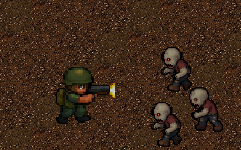
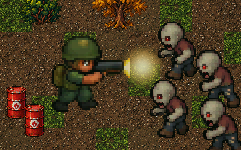
fix: registro sigue a la sala, aliado visible en 2v2, retratos nuevos y asistencia de apuntado
- crear cuenta desde una sala lleva directo a esa sala (antes regresaba al inicio)
- en el lobby 2v2 se ve el personaje del compañero; el de los rivales sigue oculto
- imágenes de militar, médica y obrero con el mismo estilo que explorador y mecánica
- celular: el temblor del dedo ya no anula el autoapuntado, aro rojo en el objetivo y asistencia al apuntar a mano

diff --git a/src/modules/Game/GamePage.tsx b/src/modules/Game/GamePage.tsx
@@ -4,10 +4,10 @@ import { GameChat } from './components/GameChat'
 import type { ChatMessage } from '../Lobby/hooks/useLobbyRoom'
 import { SettingsModal } from '../../shared/components/SettingsModal'
 import { useFullscreen } from '../../shared/lib/fullscreen'
-import { ARMORY_OPEN_S, BUILD_REACH, CORE_HP, HEAVY_WEAPONS, TILE, type GameCommand, type GameMap, type GameState, type GameSyncData, type MatchEndReason, type MatchXp, type PlayerInput, teamOf, type RoomStatus, type Slot, type Stock, type Team, type WeaponId } from '../../shared/lib/contracts'
+import { ARMORY_OPEN_S, BUILD_REACH, CORE_HP, HEAVY_WEAPONS, TILE, WEAPON_RANGE, type GameCommand, type GameMap, type GameState, type GameSyncData, type MatchEndReason, type MatchXp, type PlayerInput, teamOf, type RoomStatus, type Slot, type Stock, type Team, type WeaponId } from '../../shared/lib/contracts'
 import { emitAck, getSocket } from '../../shared/lib/socket'
 import { SnapshotBuffer } from '../../game/client/interpolation'
-import { consumeEvents, createFx, createStaticLayer, aimFromMouse, drawCrosshair, drawFrame, drawMinimap, screenToWorld, type Camera } from '../../game/client/render'
+import { autoAimTarget, consumeEvents, createFx, createStaticLayer, aimFromMouse, drawCrosshair, drawFrame, drawMinimap, screenToWorld, type Camera } from '../../game/client/render'
 import { drawAimLine } from '../../game/client/aimLine'
 import { loadSprites, type Sprites } from '../../game/client/sprites'
 import { useGameInput } from './hooks/useGameInput'
@@ -207,7 +207,7 @@ export function GamePage({ mySlot, status, roomResult, onExit, xp, results, chat
     },
     [sendCommand, selectWeapon],
   )
-  const { read: readInput, setTouchDirection, setTouchAim, setAimPressed, readTouchAim, setMouseAction } = useGameInput(onCommand, swapToPreviousWeapon)
+  const { read: readInput, setTouchDirection, setTouchAim, setAimPressed, readTouchAim, readAutoHold, setMouseAction } = useGameInput(onCommand, swapToPreviousWeapon)
   const finished = status === 'results'
   const aimEnabled = settings.mouseAim && !isTouch
   const aimEnabledRef = useRef(aimEnabled)
@@ -479,7 +479,9 @@ export function GamePage({ mySlot, status, roomResult, onExit, xp, results, chat
         }
       }
       if (!lastSent || !sameInput(input, lastSent) || !sameAim(aim, lastSentAim) || now - lastSentAt >= INPUT_HEARTBEAT_MS) {
-        const payload = aim ? { seq: seq++, ...input, aim: { x: +aim.x.toFixed(2), y: +aim.y.toFixed(2) } } : { seq: seq++, ...input }
+        // Apuntado manual con el dedo: el servidor corrige un poco hacia un objetivo cercano a la mira (asistencia).
+        const assist = touchAim ? { aimAssist: true } : {}
+        const payload = aim ? { seq: seq++, ...input, ...assist, aim: { x: +aim.x.toFixed(2), y: +aim.y.toFixed(2) } } : { seq: seq++, ...input }
         socket.emit('game:input', payload)
         lastSent = input
         lastSentAim = aim
@@ -523,6 +525,7 @@ export function GamePage({ mySlot, status, roomResult, onExit, xp, results, chat
         effects: prefs.effects,
         aim,
         ghost,
+        autoTarget: touchRef.current && readAutoHold() && meNow ? autoAimTarget(view, mySlot, WEAPON_RANGE[meNow.weapon] ?? 9) : null,
       })
       const meView = view.players.find((p) => p.slot === mySlot)
       mePos = meView ? { x: meView.x, y: meView.y } : null
@@ -574,7 +577,7 @@ export function GamePage({ mySlot, status, roomResult, onExit, xp, results, chat
       document.removeEventListener('fullscreenchange', resize)
       vv?.removeEventListener('resize', resize)
     }
-  }, [sprites, map, mySlot, readInput, readTouchAim])
+  }, [sprites, map, mySlot, readInput, readTouchAim, readAutoHold])
 
   const armoryProgress = hud?.armory?.available ? hud.armory.progress[mySlot] : undefined
   const layout = settings.hudLayout

diff --git a/src/game/client/render.ts b/src/game/client/render.ts
@@ -534,6 +534,8 @@ export interface FrameOptions {
   effects: boolean
   /** Local player's aim direction (world space) while mouse aiming is on; drives the sprite facing. */
   aim?: { x: number; y: number } | null
+  /** Objetivo del autoapuntado táctil (casillas): se marca con un aro rojo. */
+  autoTarget?: { x: number; y: number } | null
 }
 
 export function drawFrame(ctx: Ctx, v: View, o: FrameOptions): Camera {
@@ -689,6 +691,23 @@ export function drawFrame(ctx: Ctx, v: View, o: FrameOptions): Camera {
   }
   ctx.globalAlpha = 1
 
+  // Objetivo del autoapuntado (celular, botón mantenido sin arrastrar)
+  if (o.autoTarget) {
+    const { x, y } = o.autoTarget
+    const pulse = 1 + Math.sin(fx.clock * 10) * 0.12
+    ctx.strokeStyle = '#ff2a2f'
+    ctx.lineWidth = 2
+    ctx.beginPath()
+    ctx.ellipse(x * TILE, y * TILE + 4, 14 * pulse, 7 * pulse, 0, 0, Math.PI * 2)
+    ctx.stroke()
+    ctx.beginPath()
+    for (const a of [0, Math.PI / 2, Math.PI, (3 * Math.PI) / 2]) {
+      ctx.moveTo(x * TILE + Math.cos(a) * 18 * pulse, y * TILE - 6 + Math.sin(a) * 18 * pulse)
+      ctx.lineTo(x * TILE + Math.cos(a) * 11 * pulse, y * TILE - 6 + Math.sin(a) * 11 * pulse)
+    }
+    ctx.stroke()
+  }
+
   // Casilla bajo el mouse (clic derecho = construir ahí): lo que se pondría, con su textura, en verde (o rojo si no se puede)
   if (o.ghost) drawBuildGhost(ctx, v, sp, o.ghost)
 
@@ -763,6 +782,43 @@ function drawBuildGhost(ctx: Ctx, v: View, sp: Sprites, g: { x: number; y: numbe
   ctx.strokeStyle = ok ? '#2ee86a' : '#ff2a2f'
   ctx.lineWidth = 2
   ctx.strokeRect(x * TILE + 1, y * TILE + 1, TILE - 2, TILE - 2)
+}
+
+/** Casillas que frenan balas (igual que el servidor: el agua no). */
+const BULLET_BLOCKERS = new Set([1, 2, 3, 4, 8, 9, 10, 11])
+
+/**
+ * Objetivo aproximado del autoapuntado para marcarlo en pantalla (el servidor decide el real): el rival de otro
+ * equipo o zombi más cercano dentro del alcance y sin obstáculos del mapa ni paredes enemigas en medio.
+ */
+export function autoAimTarget(v: View, meSlot: Slot, range: number): { x: number; y: number } | null {
+  const me = v.players.find((p) => p.slot === meSlot)
+  if (!me || !me.alive) return null
+  const map = v.map
+  const clear = (x1: number, y1: number) => {
+    const d = Math.hypot(x1 - me.x, y1 - me.y)
+    const n = Math.ceil(d / 0.25)
+    for (let i = 1; i < n; i++) {
+      const tx = Math.floor(me.x + ((x1 - me.x) * i) / n)
+      const ty = Math.floor(me.y + ((y1 - me.y) * i) / n)
+      if (BULLET_BLOCKERS.has(map.tiles[ty * map.w + tx])) return false
+      const st = v.structures.get(ty * map.w + tx)
+      if (st && st.type !== 'trap' && teamOf(st.owner) !== me.team) return false
+    }
+    return true
+  }
+  let best: { x: number; y: number } | null = null
+  let bestD = range
+  const consider = (x: number, y: number) => {
+    const d = Math.hypot(x - me.x, y - me.y)
+    if (d < bestD && d > 1e-3 && clear(x, y)) {
+      best = { x, y }
+      bestD = d
+    }
+  }
+  for (const p of v.players) if (p.alive && p.team !== me.team) consider(p.x, p.y)
+  for (const z of v.zombies) if (z.hp > 0) consider(z.x, z.y)
+  return best
 }
 
 /** Restos de un barril o tanque que explotó. */

diff --git a/src/modules/Auth/RegisterPage.tsx b/src/modules/Auth/RegisterPage.tsx
@@ -1,5 +1,5 @@
 import { useState, type FormEvent } from 'react'
-import { Link, useNavigate } from 'react-router-dom'
+import { Link, useLocation, useNavigate } from 'react-router-dom'
 import { ArrowLeft, Lock, Mail, User } from 'lucide-react'
 import { AuthLayout } from './components/AuthLayout'
 import { AuthField } from './components/AuthField'
@@ -20,6 +20,8 @@ const ORDER: Key[] = ['name', 'email', 'password', 'confirm']
 
 export function RegisterPage() {
   const navigate = useNavigate()
+  // A dónde iba antes de que le pidieran cuenta (p. ej. a crear una sala): al registrarse sigue directo ahí.
+  const returnTo = useLocation().state as { from?: string; fromState?: unknown } | null
   const { register } = useAuth()
   const [name, setName] = useState('')
   const [email, setEmail] = useState('')
@@ -50,7 +52,7 @@ export function RegisterPage() {
     setLoading(true)
     try {
       await register(name.trim(), email.trim(), password)
-      navigate('/')
+      navigate(returnTo?.from ?? '/', { replace: true, state: returnTo?.fromState })
     } catch (err) {
       setError(err instanceof Error ? err.message : 'No se pudo crear la cuenta.')
     } finally {
@@ -79,12 +81,12 @@ export function RegisterPage() {
         <AuthButton loading={loading}>CREAR CUENTA</AuthButton>
 
         <p className="text-center font-terminal text-lg phone:text-base text-ug-muted phone:order-last phone:col-span-2">
-          ¿Ya tienes cuenta? <Link to="/login" className="text-ug-accent hover:underline" data-testid="go-login">INICIAR SESIÓN</Link>
+          ¿Ya tienes cuenta? <Link to="/login" state={returnTo} className="text-ug-accent hover:underline" data-testid="go-login">INICIAR SESIÓN</Link>
         </p>
 
         <button
           type="button"
-          onClick={() => navigate('/login')}
+          onClick={() => navigate('/login', { state: returnTo })}
           className="ug-panel flex items-center justify-center gap-2 px-4 py-2 phone:py-1 text-xl hover:border-ug-border-hi"
         >
           <ArrowLeft size="1.25rem" /> VOLVER

diff --git a/src/modules/Game/hooks/useGameInput.ts b/src/modules/Game/hooks/useGameInput.ts
@@ -35,7 +35,8 @@ type InputState = {
 }
 
 const TOUCH_DEAD_ZONE = 0.35
-const TOUCH_AIM_DEAD_ZONE = 0.25
+// Arrastre mínimo para apuntar a mano: con menos, el temblor del dedo no anula el autoapuntado.
+const TOUCH_AIM_DEAD_ZONE = 0.45
 /** Toque corto (ms) en el botón de apuntar = un disparo autoapuntado; mantenerlo sin arrastrar = ráfaga autoapuntada. */
 const AUTO_TAP_MS = 250
 
@@ -153,6 +154,9 @@ export function useGameInput(onCommand: (cmd: Command) => void, onSwapWeapon?: (
     s.aimPressAt = null
   }, [])
 
+  /** Botón de apuntar mantenido sin arrastrar (disparo autoapuntado en curso): para marcar el objetivo. */
+  const readAutoHold = useCallback(() => state.current.aimPressAt !== null && !state.current.aimDragged, [])
+
   /** Current touch aim (unit vector) or null; read every frame by the game loop. */
   const readTouchAim = useCallback(() => state.current.touchAim, [])
 
@@ -162,5 +166,5 @@ export function useGameInput(onCommand: (cmd: Command) => void, onSwapWeapon?: (
     state.current.mouse = on
   }, [])
 
-  return { read, setTouchDirection, setTouchAim, setAimPressed, readTouchAim, setMouseAction }
+  return { read, setTouchDirection, setTouchAim, setAimPressed, readTouchAim, readAutoHold, setMouseAction }
 }

diff --git a/src/modules/Lobby/components/PlayerSlot.tsx b/src/modules/Lobby/components/PlayerSlot.tsx
@@ -15,12 +15,14 @@ interface PlayerSlotProps {
   waitingText?: string
   player: LobbyPlayer | undefined
   isMe: boolean
+  /** Compañero de equipo (2v2): su personaje se ve; el de los rivales no se revela. */
+  ally?: boolean
   onToggleReady: () => void
   onRename: (name: string) => void
   onChangeSurvivor: () => void
 }
 
-export function PlayerSlot({ slot, team, compact = false, waitingText = 'Esperando rival…', player, isMe, onToggleReady, onRename, onChangeSurvivor }: PlayerSlotProps) {
+export function PlayerSlot({ slot, team, compact = false, waitingText = 'Esperando rival…', player, isMe, ally = false, onToggleReady, onRename, onChangeSurvivor }: PlayerSlotProps) {
   const t = SLOT_THEME[team]
   const [editing, setEditing] = useState(false)
   const [draft, setDraft] = useState('')
@@ -41,7 +43,7 @@ export function PlayerSlot({ slot, team, compact = false, waitingText = 'Esperan
 
   const survivor = getSurvivor(player.survivor)
   // El personaje del rival no se revela hasta que lo confirma.
-  const hidden = !isMe && !player.survivorConfirmed
+  const hidden = !isMe && !ally && !player.survivorConfirmed
 
   const submitName = (e: FormEvent) => {
     e.preventDefault()

diff --git a/src/shared/lib/contracts.ts b/src/shared/lib/contracts.ts
@@ -175,6 +175,8 @@ export interface PlayerInput {
   fire?: boolean
   /** Con `fire`: el servidor apunta solo al objetivo más cercano (toque en el celular, como Brawl Stars). */
   autoAim?: boolean
+  /** Apuntado manual en celular con asistencia: el servidor corrige hacia un objetivo cercano a la mira. */
+  aimAssist?: boolean
 }
 
 /** Direction from the local player to the mouse in world space (server normalizes it). Omitted when mouse aiming is off. */
@@ -364,6 +366,9 @@ export const Tile = { GRASS: 0, BORDER: 1, BASE: 5, ROAD: 6, WATER: 7 } as const
 export const Ground = { GRASS: 0, DIRT: 1, ROAD: 2, BASE: 3, WATER: 4, GRAVEL: 5, BRIDGE: 6, PLAZA: 7, RAIL: 8 } as const
 
 export const ZOMBIE_KINDS: ZombieKind[] = ['normal', 'fast', 'tank']
+
+/** Alcance de cada arma en casillas (igual que el servidor): para marcar el objetivo del autoapuntado. */
+export const WEAPON_RANGE: Record<WeaponId, number> = { pistol: 9, shotgun: 9, smg: 9, sniper: 18, rocket: 11 }
 export const STRUCTURE_TYPES = ['wood', 'reinforced', 'trap', 'turret'] as const
 
 /** Caja de armamento: segundos para abrirla (igual que el servidor). */

diff --git a/e2e/lobby-2v2-ally.spec.ts b/e2e/lobby-2v2-ally.spec.ts
@@ -1,0 +1,19 @@
+import { expect, test } from '@playwright/test'
+import { createRoom, joinAsBot, switchTo2v2 } from './helpers'
+
+test.describe('Lobby 2v2', () => {
+  test('se ve el personaje del compañero de equipo; el de los rivales sigue oculto', async ({ page }) => {
+    const code = await createRoom(page)
+    await switchTo2v2(page)
+    // slot 2 = equipo rival, slot 3 = mi compañero (equipo 1).
+    const bots = [await joinAsBot(code, true, 'Rojo'), await joinAsBot(code, true, 'Ana')]
+    try {
+      await expect(page.getByTestId('slot-3')).toContainText('Ana')
+      await expect(page.getByTestId('slot-3')).not.toContainText('Eligiendo superviviente')
+      await expect(page.getByTestId('slot-3').getByRole('img', { name: 'Superviviente sin revelar' })).toHaveCount(0)
+      await expect(page.getByTestId('slot-2')).toContainText('Eligiendo superviviente')
+    } finally {
+      for (const b of bots) b.disconnect()
+    }
+  })
+})

diff --git a/e2e/auth.spec.ts b/e2e/auth.spec.ts
@@ -88,4 +88,17 @@ test.describe('Flow 1 - Authentication', () => {
     await expect(page.locator('#confirm-error')).toHaveText('Las contraseñas no coinciden')
     await expect(page.locator('#confirm')).toBeFocused()
   })
+
+  test('sin cuenta: crear cuenta desde una sala lleva directo a esa sala (no al inicio)', async ({ page }) => {
+    await page.goto('/sala/ABCDE')
+    await expect(page).toHaveURL(/\/login$/)
+    await page.getByTestId('go-register').click()
+    await expect(page).toHaveURL(/\/registro$/)
+    await page.locator('#name').fill('Nuevo')
+    await page.locator('#email').fill(`nuevo-${Date.now()}@undeadgrid.dev`)
+    await page.locator('#password').fill('correct-horse-battery')
+    await page.locator('#confirm').fill('correct-horse-battery')
+    await page.getByRole('button', { name: 'CREAR CUENTA' }).click()
+    await expect(page).toHaveURL(/\/sala\/ABCDE$/)
+  })
 })

diff --git a/src/modules/Auth/LoginPage.tsx b/src/modules/Auth/LoginPage.tsx
@@ -75,7 +75,7 @@ export function LoginPage() {
           <div className="mb-2 phone:mb-0.5 flex items-center gap-3">
             <span className="h-0.5 flex-1 bg-ug-border" /> ¿Aún no tienes cuenta? <span className="h-0.5 flex-1 bg-ug-border" />
           </div>
-          <Link to="/registro" className="text-2xl phone:text-xl text-ug-accent hover:underline" data-testid="go-register">CREAR CUENTA</Link>
+          <Link to="/registro" state={returnTo} className="text-2xl phone:text-xl text-ug-accent hover:underline" data-testid="go-register">CREAR CUENTA</Link>
         </div>
 
         <button

diff --git a/src/modules/Lobby/components/TeamBoard.tsx b/src/modules/Lobby/components/TeamBoard.tsx
@@ -70,6 +70,7 @@ export function TeamBoard({ byTeam, myId, myTeam, onSetTeam, onToggleReady, onRe
                     waitingText="Esperando jugador…"
                     player={player}
                     isMe={player?.id === myId}
+                    ally={mine}
                     onToggleReady={onToggleReady}
                     onRename={onRename}
                     onChangeSurvivor={onChangeSurvivor}

diff --git a/src/modules/Game/components/MobileControls.tsx b/src/modules/Game/components/MobileControls.tsx
@@ -7,7 +7,7 @@ import { HEAVY_WEAPONS, type WeaponId } from '../../../shared/lib/contracts'
 /** Knob travel as a fraction of the base diameter. */
 const TRAVEL_RATIO = 0.3
 /** Right stick: below this fraction of the travel nothing is aimed or fired. */
-export const AIM_DEAD_ZONE = 0.25
+export const AIM_DEAD_ZONE = 0.45
 
 interface StickProps {
   testId: string
